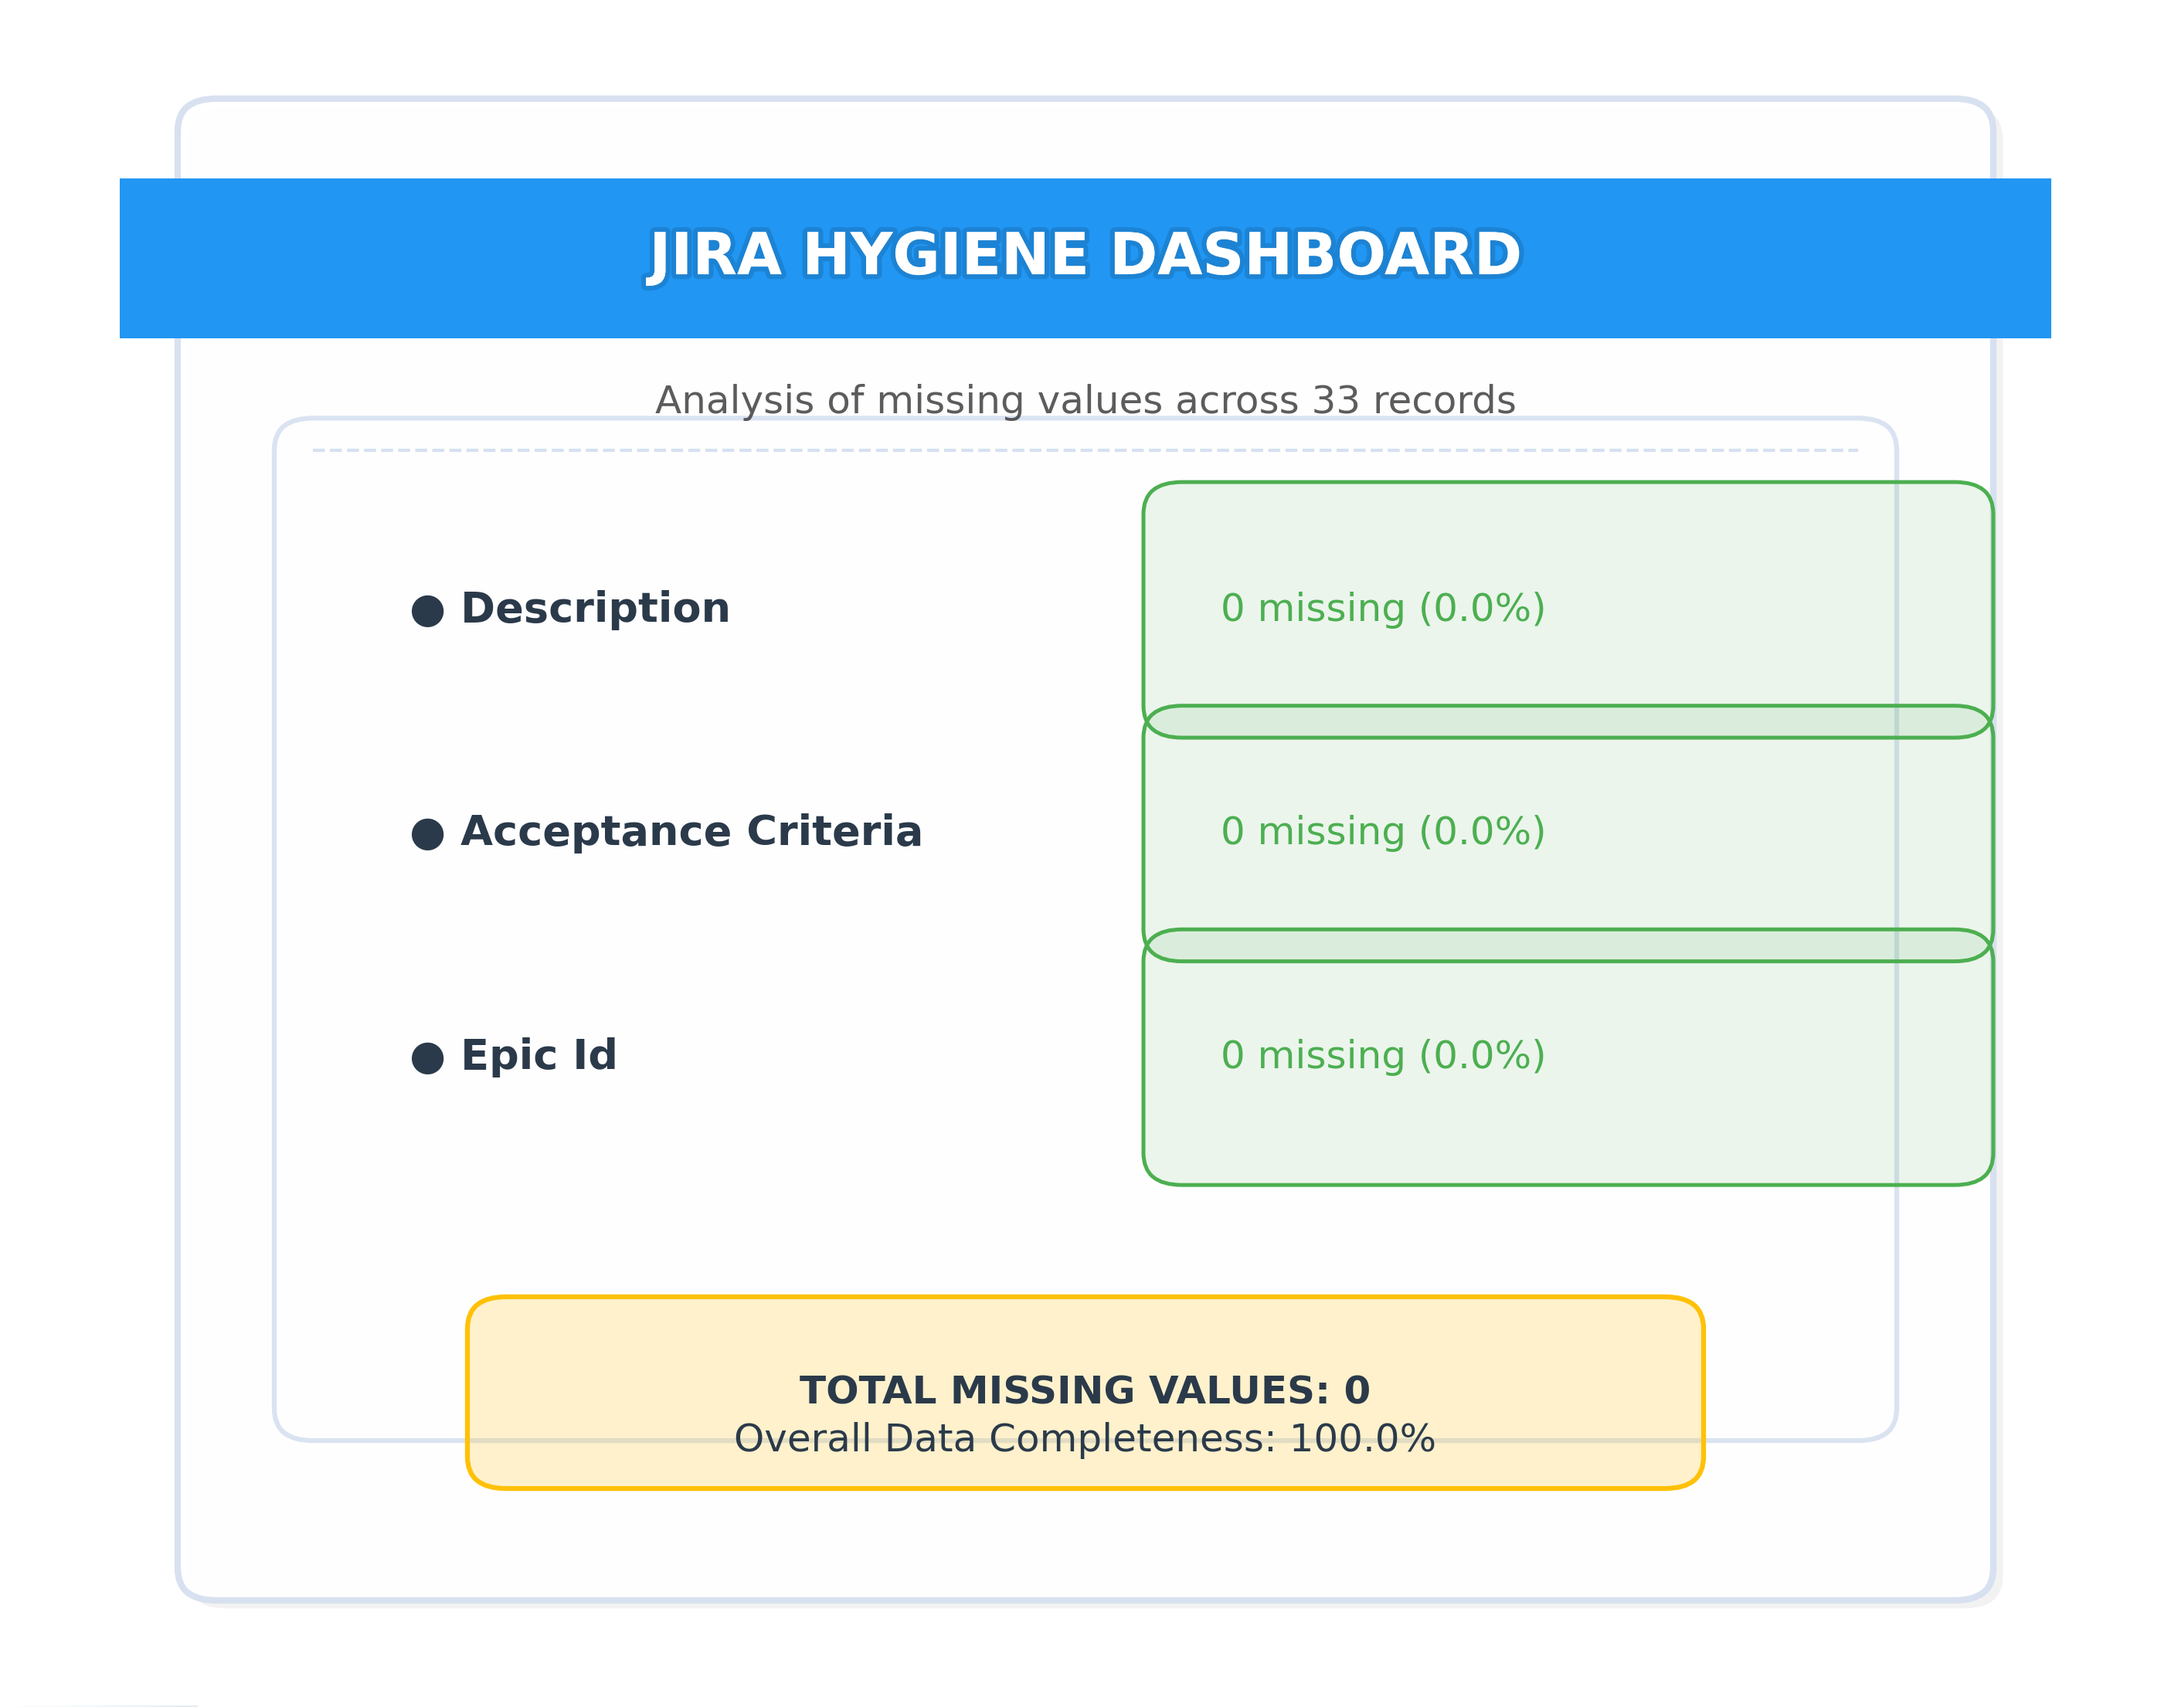
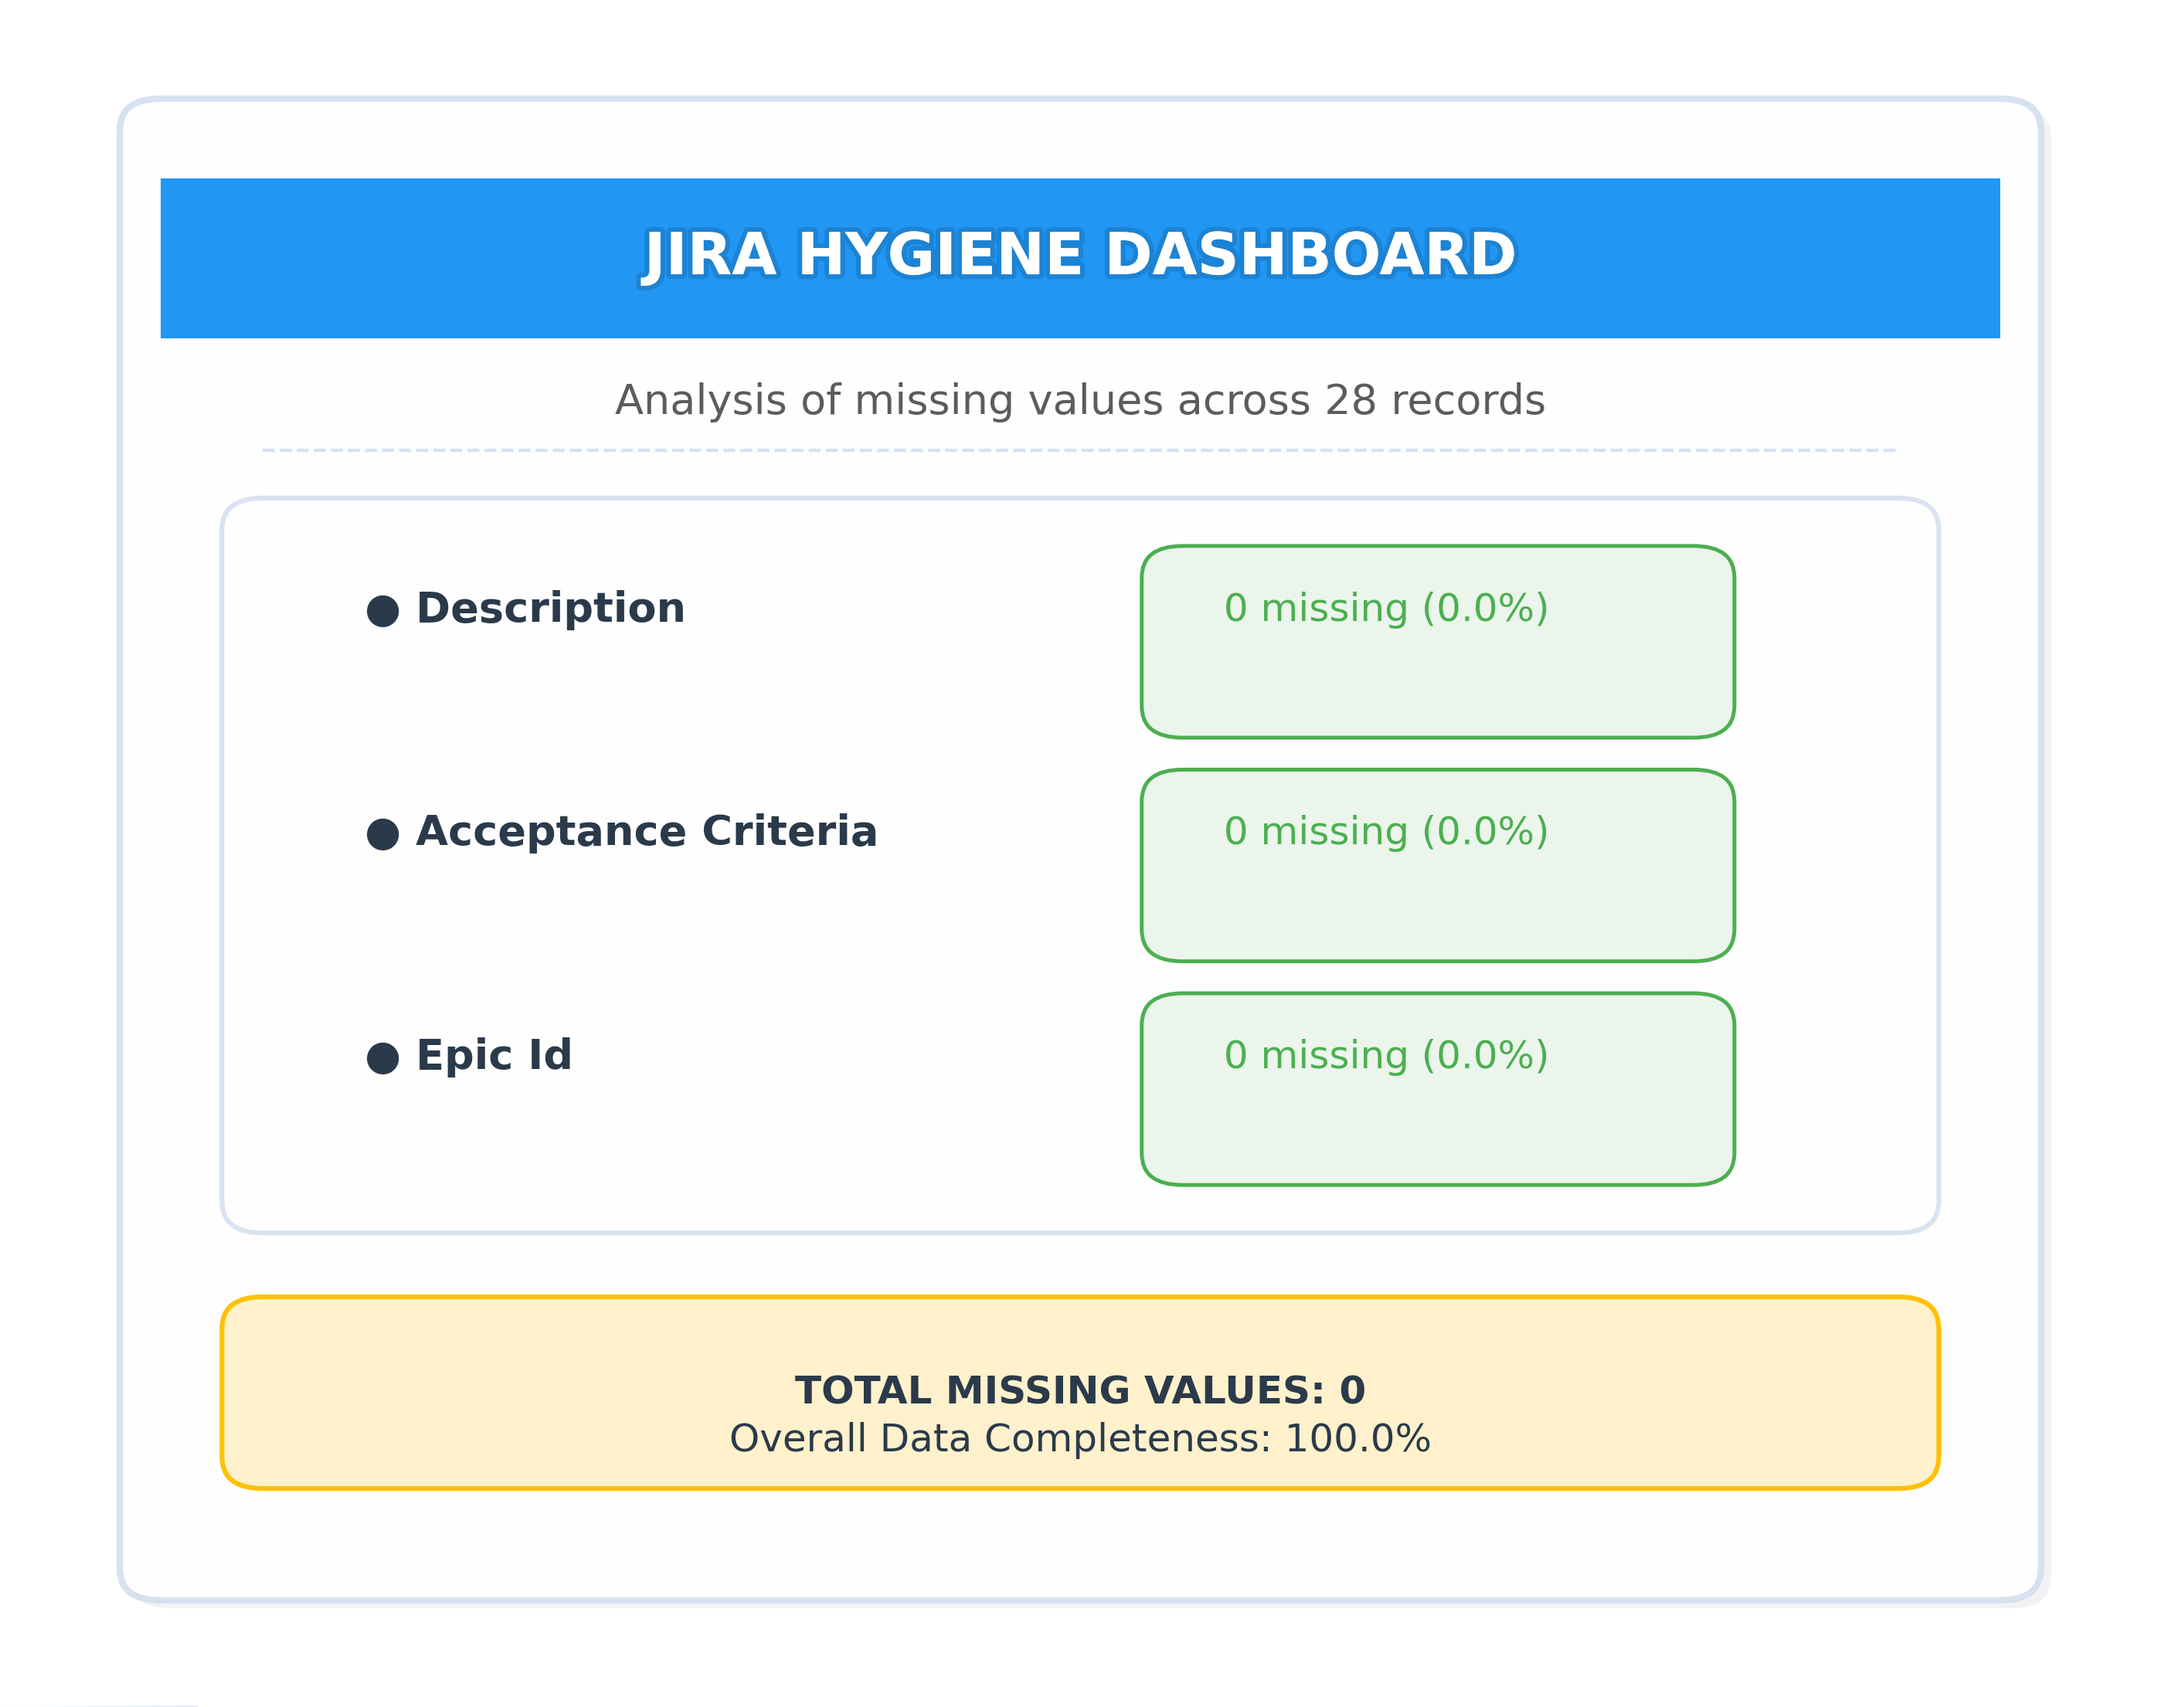
minor changes

diff --git a/final.py b/final.py
@@ -59,7 +59,7 @@ def visualize_missing_data(csv_file_path, output_image_path='jira_hygiene_dashbo
     ax.add_patch(shadow)
     
     # Add FULL-WIDTH title bar with blue background
-    title_box = Rectangle((0.0, 0.82), 1.0, 0.1,
+    title_box = Rectangle((0.05, 0.82), 0.9, 0.1,
                          facecolor=colors['accent'],
                          edgecolor='none',
                          zorder=3)
@@ -75,10 +75,10 @@ def visualize_missing_data(csv_file_path, output_image_path='jira_hygiene_dashbo
     # Subtitle moved down slightly
     ax.text(0.5, 0.78, f"Analysis of missing values across {total_rows:,} records", 
             ha='center', va='center', 
-            fontsize=12, color=colors['text'], alpha=0.8)
+            fontsize=13, color=colors['text'], alpha=0.8)
     
     # Metrics container
-    metrics_box = FancyBboxPatch((0.1, 0.15), 0.8, 0.6,
+    metrics_box = FancyBboxPatch((0.1, 0.28), 0.8, 0.42,
                                boxstyle="round,pad=0.02",
                                facecolor='#ffffff',
                                edgecolor=colors['border'],
@@ -103,7 +103,7 @@ def visualize_missing_data(csv_file_path, output_image_path='jira_hygiene_dashbo
         status_text = "Missing" if count > 0 else "Complete"
         
         # Value box with rounded corners
-        value_box = FancyBboxPatch((0.55, y_pos-cell_height/2), 0.4, cell_height,
+        value_box = FancyBboxPatch((0.55, y_pos-cell_height/2), 0.25, 0.08,
                                   boxstyle="round,pad=0.02",
                                   facecolor=mcolors.to_rgba(status_color, 0.1),
                                   edgecolor=status_color,
@@ -120,7 +120,7 @@ def visualize_missing_data(csv_file_path, output_image_path='jira_hygiene_dashbo
     total_missing = sum(missing_counts.values())
     completeness = (1 - total_missing/(total_rows*3)) * 100  # 3 columns
     
-    summary_box = FancyBboxPatch((0.2, 0.12), 0.6, 0.08,  # Adjusted y-position from 0.1 to 0.12
+    summary_box = FancyBboxPatch((0.1, 0.12), 0.8, 0.08,  # Adjusted y-position from 0.1 to 0.12
                                boxstyle="round,pad=0.02",
                                facecolor=mcolors.to_rgba(colors['highlight'], 0.2),
                                edgecolor=colors['highlight'],

diff --git a/generated_files/output2.py b/generated_files/output2.py
@@ -1,20 +1,10 @@
 import pandas as pd
-
-# Read the CSV file
 df = pd.read_csv("generated_files/output.csv")
 
-# Filter data for Sprint 8
-sprint_8_df = df[df['sprint'] == 'Sprint 8']
-
-# Calculate total story points for Apoorva and Rishika
-apoorva_points = sprint_8_df[sprint_8_df['assignee'] == 'Apoorva']['story_points'].sum()
-rishika_points = sprint_8_df[sprint_8_df['assignee'] == 'Rishika']['story_points'].sum()
-
-# Create a formatted string with the results
-result = f"User Query: Total story points assigned to Apoorva and Rishika separately in Sprint 8\n"
-result += f"Apoorva: {apoorva_points} story points\n"
-result += f"Rishika: {rishika_points} story points"
+# Calculate the number of story points assigned to Rishika
+rishika_story_points = df[df['assignee'] == 'Rishika']['story_points'].sum()
 
 # Save the result to output.txt
-with open("generated_files/output.txt", "w") as f:
-    f.write(result)
+with open('generated_files/output.txt', 'w') as f:
+    f.write(f"User Query: Number of story points assigned to Rishika\n")
+    f.write(f"Result: {rishika_story_points}")

diff --git a/Voice_based.py b/Voice_based.py
@@ -106,7 +106,14 @@ def process_query(user_query, audio_text=None):
         If there is nothing specific assign variable specific_need as "None" 
         eg if query is total number story points assigned to RTB , CTB seperately in Sprint 8 then
         data_to_query: All issues in Sprint 8
-        specific_need: Stroy points assigned to RTB , CTB seperately''',
+        specific_need: Stroy points assigned to RTB , CTB seperately
+        eg2 if query is total number of story points assigned to Rishika and Alok in sprint 8
+        data_to_query: All issues assigned to Rishika and Alok in sprint 8
+        specific_need: Story points assigned to Rishika and Alok seperately in sprint 8
+        eg3 if query is total number of backlogs in CDF board in Sprint 8
+        data_to_query: All backlogs in CDF board in Sprint 8
+        specific_need: Number of backlogs in CDF board in Sprint 8
+        ''',
         agent=agent1,
         output_pydantic=extracted_info,
         expected_output="A response containing ",

diff --git a/generated_files/output1.py b/generated_files/output1.py
@@ -1,0 +1,4 @@
+import pandas as pd
+df = pd.read_csv("generated_files/new_custom.csv")
+rishika_issues = df[df['assignee'] == 'Rishika']
+rishika_issues.to_csv('generated_files/output.csv', index=False)
